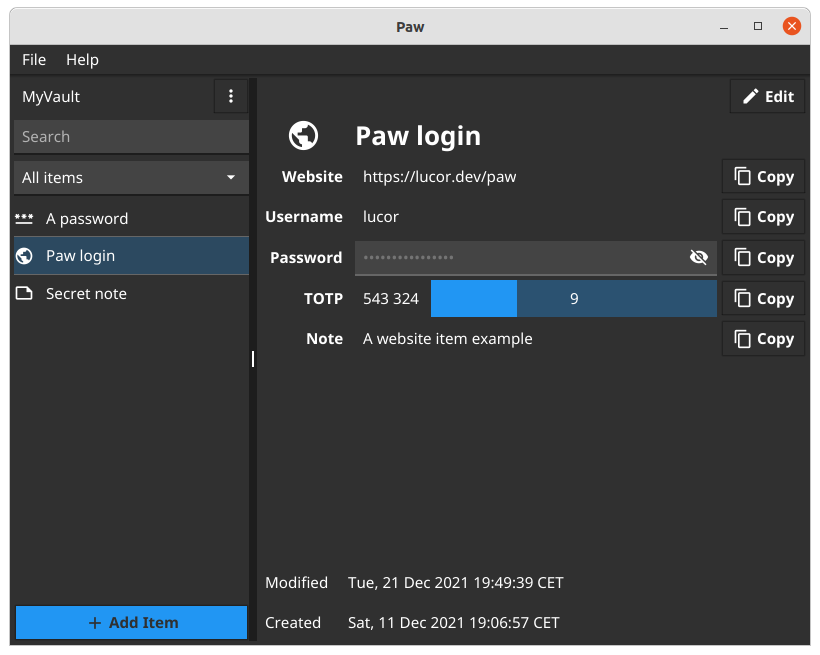
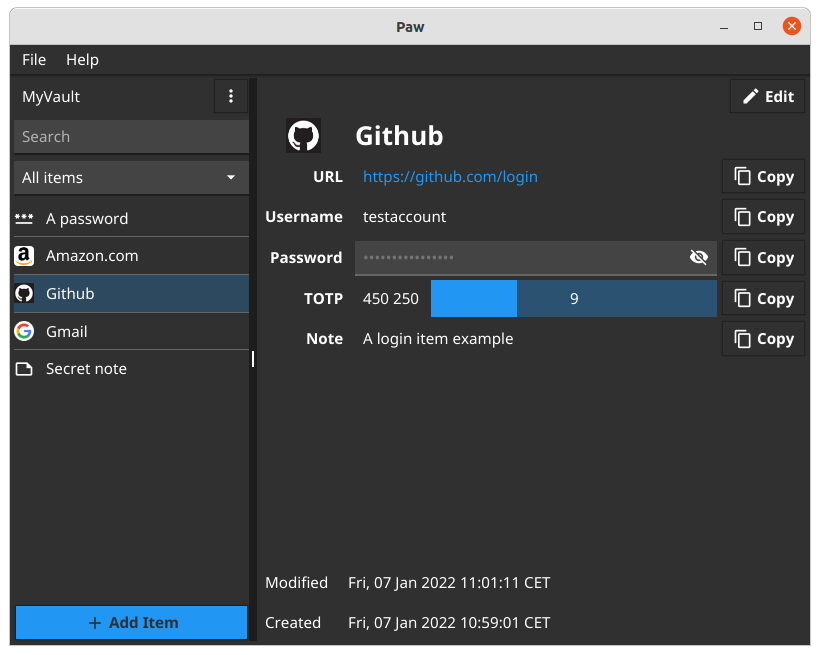
- doc: update screenshot

diff --git a/CHANGELOG.md b/CHANGELOG.md
@@ -3,6 +3,8 @@
 ## 0.13.1 - 07 January 2022
 
 - paw: item creation was not working correctly
+- doc: update screenshot
+
 ## 0.13.0 - 07 January 2022
 
 > This release updates the internal storage, so previous versions won't be compatible.
